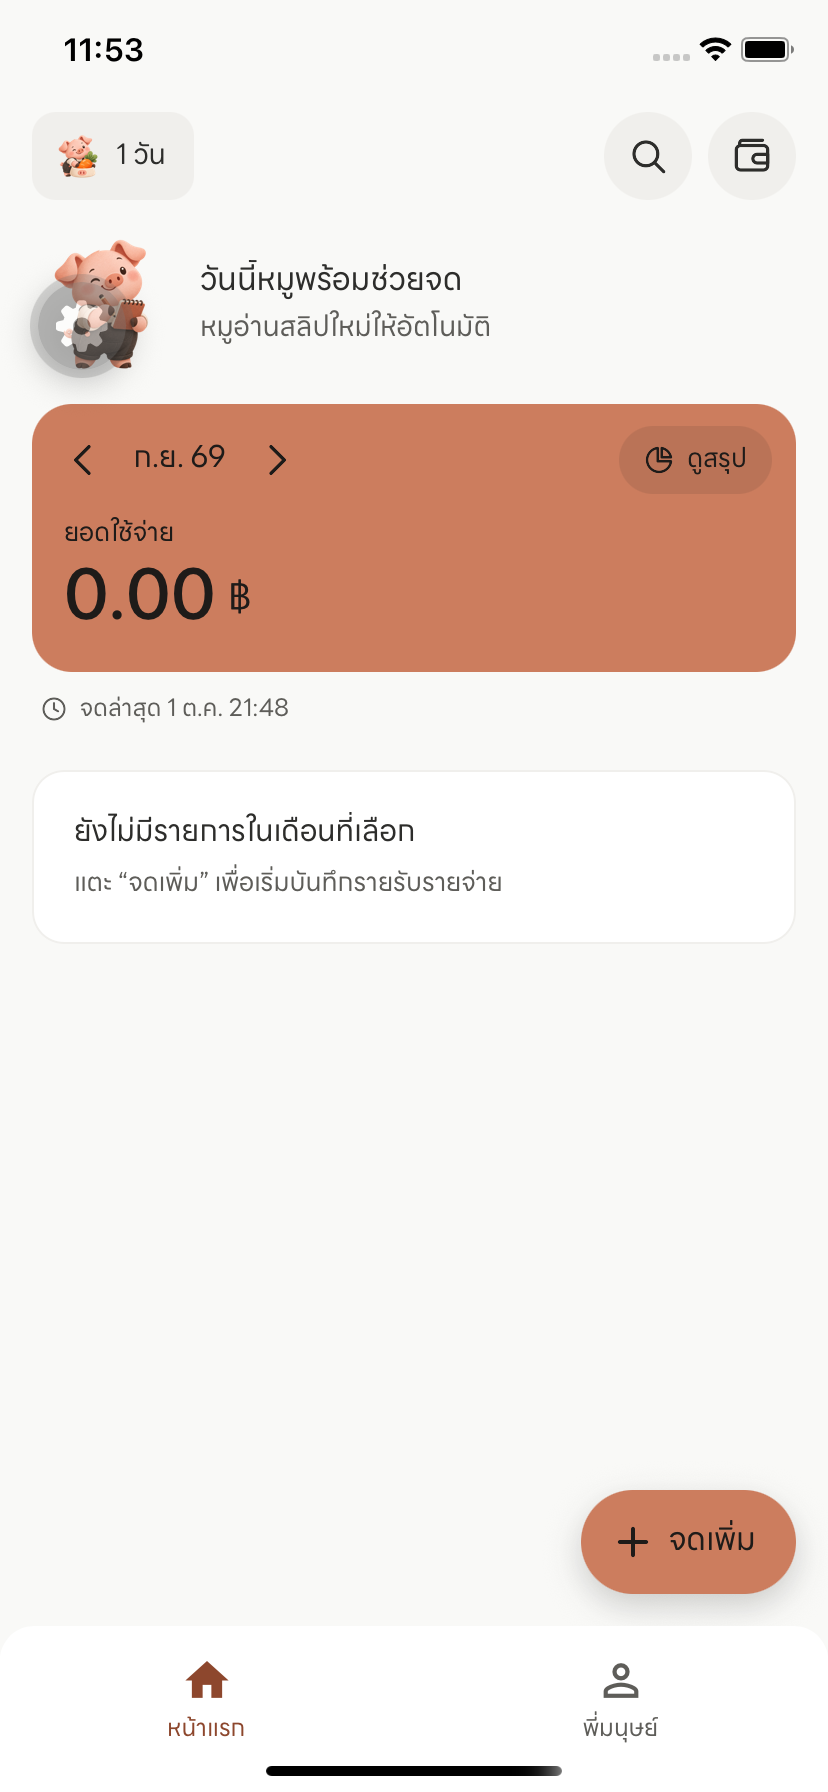
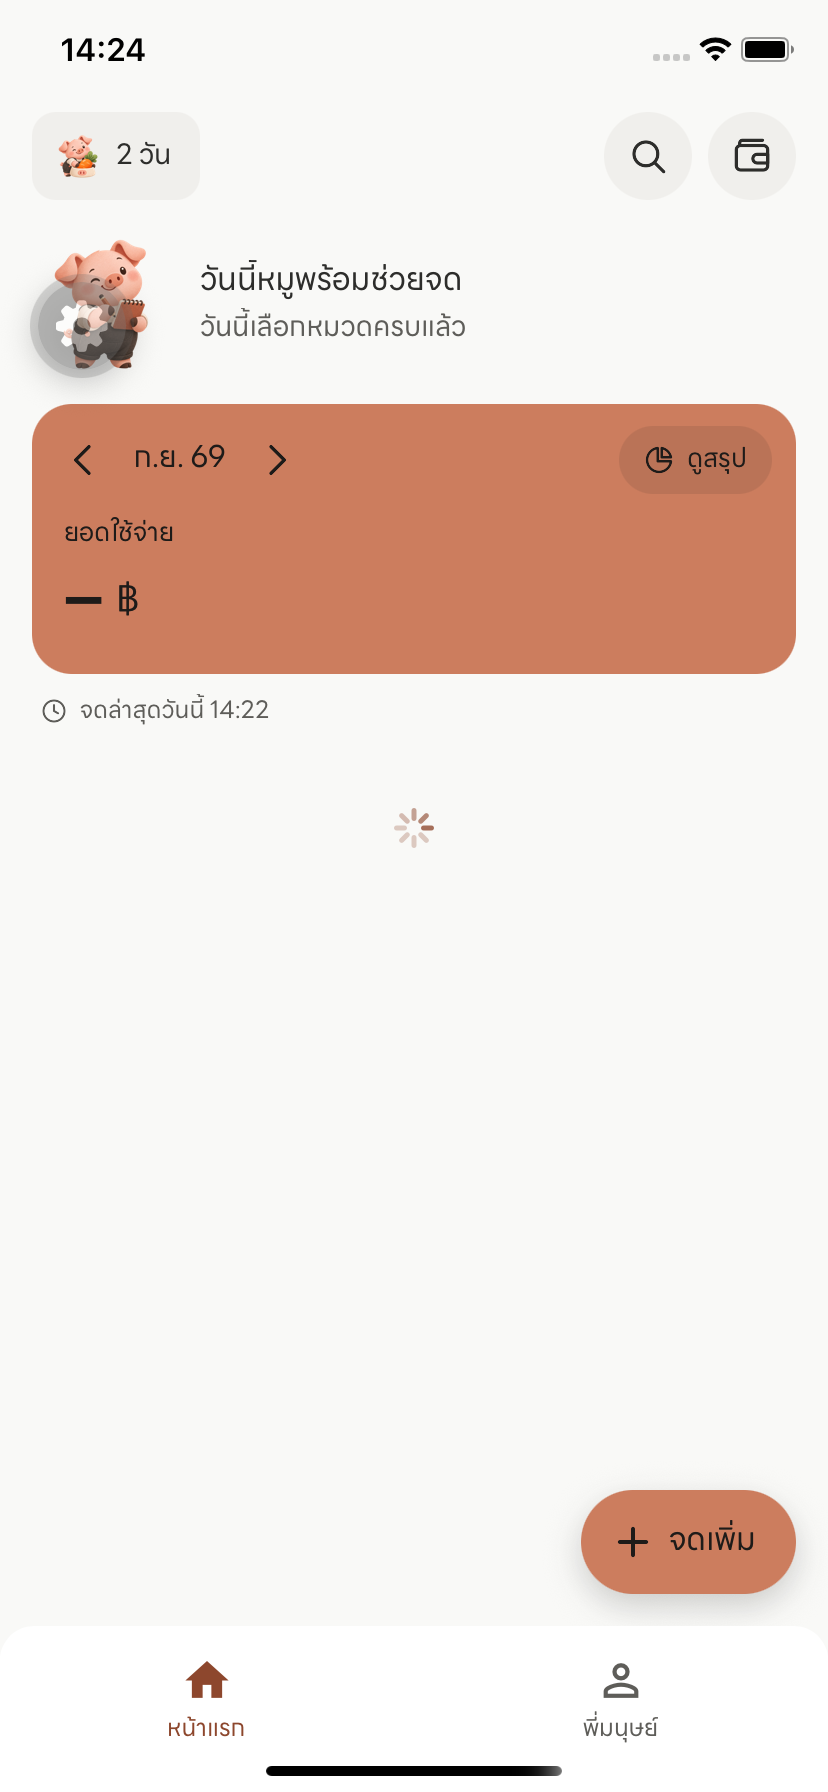
docs: ticket 05 review notes, refreshed app captures and Maestro flow
The 05 flow opens Summary from the previous month and, now that Home's queue
covers the whole month, closes the sheet after its own pick instead of
categorizing the account's other pending entries.

diff --git a/.scratch/native-redesign-ios/notes/05-home-filter-queue.md b/.scratch/native-redesign-ios/notes/05-home-filter-queue.md
@@ -2,16 +2,18 @@
 
 ## For later tickets
 
-- **Period** (`features/home/period.ts`): `selectedHomePeriod(today, offset, mode, { monthStartDay, weekStart, fortnightAnchor })` returns `{ from, to, label, caption, previousLabel, nextLabel, isCurrent }`. Labels use fixed Thai month names (`shortThaiDate`, "ก.ย. 69", "28 ก.ย. – 4 ต.ค. 69"), not `Intl`, so they match the prototype on any device. A month that does not start on the 1st captions the hero "ยอดใช้จ่าย · 25 ก.ย. – 24 ต.ค."; week/fortnight arrows say "รอบก่อน"/"รอบถัดไป". Summary (08) can reuse the month labels.
-- **All pages** (`features/home/home-days.ts`): `loadAllEntries(list, filters)` reads `listTransactions` 1,000 at a time until a short page. `entriesQueryOptions.all(filters)` wraps it under the Ledger query key, so `refreshEntryReaders()` and the slip import refresh it. `pendingCategories()` now uses it too (the old `pending-categories.ts` loader is gone). Use `all` wherever counts or totals must not stop at the first page (Search 09, cards 19).
-- **Day list**: `homeDays(entries, { today, categories })` groups by day in server order and gives each row `pending`, `icon` (emoji, ⇄, or empty while pending), `meta` ("อาหาร · สลิป", "รอเลือกหมวด · จดเอง") and `isNew`. `latestJotLabel(createdAt, today)` and `homeSpeech(...)` hold the copy. `needsCategory` is the one "waits for a category" rule (transfers never do).
+- **Period** (`features/home/period.ts`): `selectedHomePeriod(today, offset, mode, { monthStartDay, weekStart, fortnightAnchor })` returns `{ from, to, label, caption, previousLabel, nextLabel, isCurrent, summaryDate }`. Labels use fixed Thai month names (`shortThaiMonth`/`shortThaiDate` in `utils/format.ts`, "ก.ย. 69", "28 ก.ย. – 4 ต.ค. 69"), not `Intl`, so they match the prototype on any device. A month that does not start on the 1st captions the hero "ยอดใช้จ่าย · 25 ก.ย. – 24 ต.ค."; week/fortnight arrows say "รอบก่อน"/"รอบถัดไป". Summary (08) can reuse the month labels.
+- **ดูสรุป**: Home pushes `/summary` with `params: { date: period.summaryDate }` (the period's last day, or today while it runs); Summary opens on `summaryMonthOffset(today, date, monthStartDay)` and its arrows take over from there. A week that runs into next month opens the month of its days so far.
+- **All pages** (`features/entries/all-entries.ts`): `loadAllEntries(list, filters)` reads `listTransactions` 1,000 at a time until a short page. `entriesQueryOptions.all(filters)` wraps it under the Ledger query key, so `refreshEntryReaders()` and the slip import refresh it. `pendingCategories()` now uses it too (the old `pending-categories.ts` loader is gone). Use `all` wherever counts or totals must not stop at the first page (Search 09, cards 19).
+- **Day list**: `homeDays(entries, { today, categories })` groups by day in server order and gives each row `pending`, `icon` (emoji, ⇄, or empty while pending), `meta` ("อาหาร · สลิป", "รอเลือกหมวด · จดเอง") and `isNew`. `latestJotLabel(createdAt, today)` and `homeSpeech(...)` hold the copy; `sumOf(entries, kind)` totals. `needsCategory` (`features/entries/category-queue.ts`) is the one "waits for a category" rule (transfers never do).
+- **Paging order**: `listTransactions` orders by `occurredOn desc, createdAt desc, id desc`; `id` last makes the order total so offset pages never repeat or drop entries recorded at the same moment.
 - **จดล่าสุด** reads `listTransactions({ sort: "recorded", limit: 1 })`. `sort: "recorded"` is a new optional filter on the existing operation (newest `createdAt` first); the default stays newest day first.
-- **ไม่ระบุ** now means "no bank and no card" in both Ledger (`walletWhere`) and Analytics (`matchesWallet`); a manual entry with a bank is only in that bank. GLOSSARY: **รายการไม่ระบุบัญชี**.
-- **Filter sheet** (`features/wallets/filter.ts`): `walletFilterSections(options, value)` gives the three groups the sheet shows (banks via `bankFilterGroups`, cards labelled by `walletCardLabel` "บัตร KTC •• 4821", then "รายการที่ไม่ระบุบัญชี"; empty groups are left out), `toggleWalletRow`, `toggleAllWalletSources`, `hasNoWalletSource`. Options only ever come from the user's own entries, never the prototype's sample banks. `includeDeletedCards` filters nothing yet and stays `true`; the "บัตรที่ลบไปแล้ว" row is gone. Summary still uses the same sheet and the same `appliedWalletFilter` from `context/app-data`.
-- **Queue** (`features/entries/category-queue.ts` + route `app/(app)/(categories)/pending-categories.tsx`): the route is a `transparentModal` bottom sheet (own shade and slide). `router.push("/pending-categories")` queues today's pending entries; `router.push({ pathname: "/pending-categories", params: { ids: "a,b,c" } })` queues those entries in that order (Home row → one id; Summary's "ยังไม่เลือกหมวด" group in 08 and Search 09 should pass their ids). Members are fixed when it opens; entries categorized or deleted elsewhere meanwhile are passed over (`currentInQueue`). A pick calls `useEntryActions().setCategory` (refreshes every reader), then moves on; the last pick closes with "เลือกหมวดครบแล้ว" or "บันทึกหมวดแล้ว" (anything else still pending). A failed pick keeps the entry and shows the Thai error under the grid.
+- **ไม่ระบุ** now means "no bank and no card" in both Ledger (`walletWhere`) and Analytics (`matchesWallet`); a manual entry with a bank is only in that bank. GLOSSARY: **รายการไม่ระบุบัญชี**. Because the meaning changed, the flag is now `includeUnspecified` (was `includeOther`); the shared schema `packages/api/src/shared/finance/wallet-filter.ts` still decodes `includeOther` from older app builds into it. The filter is only held in memory on the device (`context/app-data`), so nothing stored there needs migrating. `entryWallet(entry)` (`features/wallets/entry-wallet.ts`) is the same rule on the device: card name → card; bank with no last four → bank; else ไม่ระบุ. The queue card's wallet uses it.
+- **Filter sheet** (`features/wallets/filter.ts`): `walletFilterSections(options, value)` gives the three groups the sheet shows (banks via `bankFilterGroups`, cards labelled by `walletCardLabel` "บัตร KTC •• 4821", then "รายการที่ไม่ระบุบัญชี"; empty groups are left out), `toggleWalletRow`, `toggleAllWalletSources`, `hasNoWalletSource`. Options only ever come from the user's own entries, never the prototype's sample banks. `includeDeletedCards` filtered nothing and was removed (schema, types, sheet); the "บัตรที่ลบไปแล้ว" row is gone. Both sheets share `SheetPanel`/`SheetBackdrop` (`components/ui/bottom-sheet.tsx`: surface, handle, 17 title, close). Summary still uses the same sheet and the same `appliedWalletFilter` from `context/app-data`.
+- **Queue** (`features/entries/category-queue.ts` + route `app/(app)/(categories)/pending-categories.tsx`): the route is a `transparentModal` bottom sheet (own shade and slide). `router.push("/pending-categories")` queues today's pending entries (streak); `router.push({ pathname: "/pending-categories", params: { ids: "a,b,c" } })` queues those entries in that order (Home's link → every pending entry of the viewed period under the applied filter; Home row → one id; Summary's "ยังไม่เลือกหมวด" group in 08 and Search 09 should pass their ids). Members are fixed when it opens; entries categorized or deleted elsewhere meanwhile are passed over (`currentInQueue`). A pick calls `useEntryActions().setCategory` (refreshes every reader), then moves on to the next entry that still waits; when none does (last pick, or the rest got a category elsewhere meanwhile) the sheet closes with "เลือกหมวดครบแล้ว" or "บันทึกหมวดแล้ว" (anything else still pending), `queueEmptiedMessage`. A failed pick keeps the entry and shows the Thai error under the grid.
 - **Edit route fix**: `entry/[id].tsx` now waits for a stale cached copy to be read again before opening. Before, an entry categorized in the queue and opened again showed its old (empty) category.
-- **Maestro**: `apps/native/.maestro/05-home-filter-queue.yaml` saves one KBank 42 ฿ entry, walks filter and queue, then deletes it. It writes to the dev account; if a run stops early, rerun it (its loops categorize and delete any leftover "รายจ่าย 42 บาท" rows). Icon glyphs end up in a Pressable's accessibility text unless it has an `accessibilityLabel`, so give buttons with icons a label (done for เลือกทั้งหมด and แก้ไขรายการนี้).
-- Tests: `apps/native/features/home/{period,home-days}.test.ts`, `features/wallets/filter.test.ts`, `features/entries/category-queue.test.ts`, and `apps/server/test/home-filter-queue.test.ts` (ไม่ระบุ vs manual-with-bank in Ledger and Analytics, 1,001 rows read in full with day totals, queue scope/pick/skip/passed-over through the real routes, wrong-kind pick refused, latest recorded entry).
+- **Maestro**: `apps/native/.maestro/05-home-filter-queue.yaml` saves one KBank 42 ฿ entry, walks filter and queue, then deletes it. It also opens Summary from the previous month (`05-app-summary-previous`). It writes to the dev account; if a run stops early, rerun it (its loops categorize and delete any leftover "รายจ่าย 42 บาท" rows from their own rows). Since the link queues the whole month, the flow closes the sheet after its own pick and never categorizes the account's other pending entries. Icon glyphs end up in a Pressable's accessibility text unless it has an `accessibilityLabel`, so give buttons with icons a label (done for เลือกทั้งหมด and แก้ไขรายการนี้).
+- Tests: `apps/native/features/home/{period,home-days}.test.ts`, `features/wallets/filter.test.ts`, `features/entries/category-queue.test.ts`, and `apps/server/test/home-filter-queue.test.ts` (ไม่ระบุ vs manual-with-bank in Ledger and Analytics, 1,001 rows read in full with day totals, queue scope/pick/skip/passed-over through the real routes, wrong-kind pick refused, latest recorded entry; after review: same-moment entries page in one order, `entryWallet` agrees with both filters, the legacy `includeOther` key still filters, Home's queue covers the viewed period and filter).
 
 ## Seams
 
@@ -28,7 +30,7 @@ Deliberate differences:
 - **Data, not seed**: the filter lists only the user's banks and cards; the prototype hard-codes กสิกรไทย/ไทยพาณิชย์/กรุงไทย/บัตร KTC. Empty groups are hidden.
 - **ใหม่ badge** marks entries recorded today (by the user, a slip or a rule). The prototype marks entries added in the session; the app has no "seen" state yet.
 - **Queue card meta** has no time ("กสิกรไทย · สลิป · วันนี้"): the app does not store a time of day for entries (spec: never fill it from `createdAt`). The prototype shows "วันนี้ 12:41".
-- **Queue scope**: Home's link opens today's pending entries, the same set its count names. The prototype's `openQueue` queues every pending entry while the link counts only today's; the spec asks the queue to follow the scope it was opened from.
+- **Queue scope**: Home's count, link and queue cover every pending entry of the period and filter on screen (not only today's), so an earlier day of the month that waits still shows the link. The prototype's `openQueue` queues every pending entry while its link counts only today's; the spec asks the queue to follow the scope it was opened from. The pig says "วันนี้เลือกหมวดครบแล้ว" only when today has entries and none of them waits.
 - **Loading/error states** are not in the prototype: a spinner while loading, an error card "โหลดรายการไม่สำเร็จ / เชื่อมต่อไม่ได้ ตรวจอินเทอร์เน็ตแล้วลองอีกครั้ง / ลองอีกครั้ง" in the empty-card style, a one-line "อัปเดตข้อมูลไม่สำเร็จ … ลองอีกครั้ง" when older data is still shown, and "–" instead of 0.00 in the hero while the period is unknown.
 - **Empty copy** keeps the week/fortnight and "ที่เลือก" variants (prototype only has the month text).
 - **Hero amount** keeps the existing spinning counter animation; the prototype's number is static.
@@ -36,4 +38,4 @@ Deliberate differences:
 
 ## iOS run (simulator iPhone 11, iOS 18.6, dev build, 2026-10-02)
 
-Driven with the `ios-preview` skill against the dev database. Captured light and dark: `05-app-home`, `-home-previous`, `-home-pending`, `-filter-sheet`, `-filter-none`, `-home-filtered`, `-queue`, `-queue-edit`, `-queue-back`, `-queue-done`. Failure/recovery captured in light only by stopping the API server by hand (flows kept out of the repo): `05-app-queue-error` (pick while offline: Thai error, entry kept), `05-app-home-error` (period that cannot load), `05-app-home-recovered` (after "ลองอีกครั้ง", loading again). Found that the first "ลองอีกครั้ง" after the server returns sends no request and only the second does: filed as [24](../issues/24-ios-first-retry-after-outage.md). All test entries the flows created were deleted again (soft-deleted rows stay in the dev database, as any app delete does). Not checked on the simulator: a custom month start / week / fortnight calendar (unit tests only; the dev account uses months from the 1st), slip reading state, more than 1,000 rows on screen, Dynamic Type, VoiceOver.
+Driven with the `ios-preview` skill against the dev database. Captured light and dark: `05-app-home`, `-home-previous`, `-home-pending`, `-filter-sheet`, `-filter-none`, `-home-filtered`, `-queue`, `-queue-edit`, `-queue-back`, `-queue-done`. Failure/recovery captured in light only by stopping the API server by hand (flows kept out of the repo): `05-app-queue-error` (pick while offline: Thai error, entry kept), `05-app-home-error` (period that cannot load), `05-app-home-recovered` (after "ลองอีกครั้ง", loading again). Found that the first "ลองอีกครั้ง" after the server returns sends no request and only the second does: filed as [24](../issues/24-ios-first-retry-after-outage.md). All test entries the flows created were deleted again (soft-deleted rows stay in the dev database, as any app delete does). After the review fixes the flow was run again light and dark and the shots above were replaced, plus `05-app-summary-previous` (ดูสรุป from ก.ย. opens Summary on ก.ย. 69). The dev account had a pending entry on 1 ต.ค., so `05-app-queue` now reads "1 จาก 2" and `05-app-queue-done` shows the queue moving on to it ("2 จาก 2", ไม่ระบุบัญชี · จดเอง · 1 ต.ค.); the flow then closed the sheet and left that entry pending. The error/recovery shots were not retaken (that code did not change). Not checked on the simulator: a custom month start / week / fortnight calendar (unit tests only; the dev account uses months from the 1st), slip reading state, more than 1,000 rows on screen, Dynamic Type, VoiceOver.

diff --git a/.scratch/native-redesign-ios/issues/05-home-filter-queue.md b/.scratch/native-redesign-ios/issues/05-home-filter-queue.md
@@ -6,7 +6,7 @@
 
 **Status:** ready-for-human
 
-**Done in:** c07d7cf feat(native): home periods, day list, wallet filter and category queue logic; 170e511 feat(native): redesign Home, wallet filter sheet and category queue sheet (notes, ภาพ และไฟล์นี้อยู่ใน commit docs ที่ตามมา)
+**Done in:** c07d7cf feat(native): home periods, day list, wallet filter and category queue logic; 170e511 feat(native): redesign Home, wallet filter sheet and category queue sheet; c5fce8e fix(api): order entries by id last so offset paging is stable; dd9121f fix(native): rename includeOther to includeUnspecified and name queue wallets by the filter rule; f066b35 fix(native): address ticket 05 review findings (notes, ภาพ, flow Maestro และไฟล์นี้อยู่ใน commit docs ที่ตามมาแต่ละรอบ)
 
 **Source:** [Spec: ปรับแอปหมูจดตามดีไซน์ใหม่ — ตรวจรับ iOS ก่อน](../spec.md)
 
@@ -39,3 +39,14 @@
 11. "แก้ไขรายการนี้" ในคิว (`05-queue-edit`) → เปิดหน้าแก้ไขทับคิว; ปิด (×) แล้วกลับมาที่คิวรายการเดิม (`05-queue-back`); ถ้าเลือกหมวดในหน้าแก้ไขแล้วบันทึก → คิวข้ามรายการนั้นไปเอง; เปิดแก้รายการเดิมอีกครั้งต้องเห็นหมวดล่าสุด (เคยเห็นค่าเก่า แก้แล้ว)
 12. ปิดเน็ต: กดหมวดในคิว → ข้อความ "เลือกหมวดไม่สำเร็จ เชื่อมต่อไม่ได้ ลองอีกครั้ง" (`05-app-queue-error`) รายการยังอยู่; เปลี่ยนเดือนตอนไม่มีเน็ต → การ์ด "โหลดรายการไม่สำเร็จ" และยอดเป็น "–" ไม่ใช่ 0 (`05-app-home-error`); เปิดเน็ตแล้วกด "ลองอีกครั้ง" → โหลดได้ (`05-app-home-recovered`) — ดูด้วยว่าบน iPhone ต้องกดสองครั้งเหมือนบน simulator หรือไม่ (เรื่อง [24](24-ios-first-retry-after-outage.md))
 13. ข้อความยาว/ยอดยาวในแถวไม่ล้น ชื่อตัดด้วย … และ Dynamic Type ใหญ่ยังกดลิงก์ ลูกศร ปุ่มดูสรุป และจดเพิ่มได้
+
+**2026-10-02 หลังแก้ตาม review (c5fce8e, dd9121f, f066b35) ตรวจเพิ่มบน iPhone ทั้งธีมสว่างและมืด:** โค้ดผ่าน check, check-types และ tests แล้ว และเดินบน simulator ใหม่ ภาพที่เปลี่ยนแทนที่ของเดิมใน `notes/05-app-<state>[-dark].png` และมีภาพใหม่ `05-app-summary-previous[-dark].png`
+
+14. ดูสรุปตามช่วงที่ดู: ที่หน้าแรกกดลูกศรซ้ายไปเดือนก่อน (เช่น ก.ย. 69) แล้วกด "ดูสรุป" → หน้าสรุปเปิดที่ ก.ย. 69 ไม่ใช่เดือนปัจจุบัน (`05-app-summary-previous`); กดลูกศรในหน้าสรุปแล้วเลื่อนเดือนได้ตามปกติ; ถ้าตั้งปฏิทินเป็นรายสัปดาห์และสัปดาห์นี้คร่อมสองเดือน → สรุปเปิดที่เดือนของวันนี้
+15. นับรอเลือกหมวดตามช่วงที่ดู: มีรายการรอเลือกหมวดของวันก่อนหน้าในเดือนนี้ (วันนี้เลือกครบแล้ว) → ใต้หมูยังมีลิงก์ "มี N รายการรอเลือกหมวด ›" และ N ตรงกับจำนวนแถวที่มีวงประในเดือนที่ดู กดแล้วคิวมี "1 จาก N" ครบทุกวันของเดือน (`05-app-queue`); เปลี่ยนไปเดือนอื่น → N เปลี่ยนตามเดือนนั้น
+16. ลิงก์ตามตัวกรอง: กรองเฉพาะธนาคารหนึ่งแล้ว N นับเฉพาะรายการรอเลือกหมวดที่ยังเห็นในรายการ และคิวมีเฉพาะรายการเหล่านั้น
+17. หมูบอก "วันนี้เลือกหมวดครบแล้ว" เฉพาะเมื่อรายการของวันนี้มีหมวดครบ: ดูเดือนก่อนขณะวันนี้ยังมีรายการรอ → หมูไม่บอกว่าครบ
+18. คิวจบแม้รายการที่เหลือถูกเลือกหมวดที่อื่น: เปิดคิวที่มีอย่างน้อย 2 รายการ กด "แก้ไขรายการนี้" เลือกหมวดให้รายการนั้นในหน้าแก้ไขแล้วบันทึก จากนั้นทำแบบเดียวกันจนไม่เหลือ → แผงปิดพร้อม toast "เลือกหมวดครบแล้ว" (หรือ "บันทึกหมวดแล้ว" ถ้ายังมีรายการรอนอกคิว) ไม่ใช่ปิดเงียบ ๆ หรือค้างที่วงหมุน
+19. การ์ดในคิวของรายการสลิปที่มีธนาคารและเลขท้ายบัตรแต่ไม่มีชื่อบัตร → ขึ้น "ไม่ระบุบัญชี" และรายการนั้นอยู่ในตัวกรอง "รายการที่ไม่ระบุบัญชี" (ไม่อยู่ในธนาคารนั้น)
+20. แผงตัวกรองและแผงเลือกหมวดใช้ส่วนหัวเดียวกันแล้ว: ขีดจับ ชื่อ 17 และปุ่ม × อยู่ตำแหน่งเดียวกันทั้งสองแผง; ในแผงตัวกรองที่มีบัญชีหลายแถว ส่วนหัวอยู่กับที่ตอนเลื่อนรายการ (เดิมเลื่อนตามไปด้วย)
+21. ตัวกรองยังทำงานเหมือนเดิมหลังเปลี่ยนชื่อในโค้ด: เลือกเฉพาะ "รายการที่ไม่ระบุบัญชี" แล้วหน้าแรกและหน้าสรุปแสดงตรงกัน; ถ้ามีเครื่องที่ยังเปิดแอปรุ่นก่อนแก้อยู่ กรองได้ปกติกับเซิร์ฟเวอร์ใหม่
